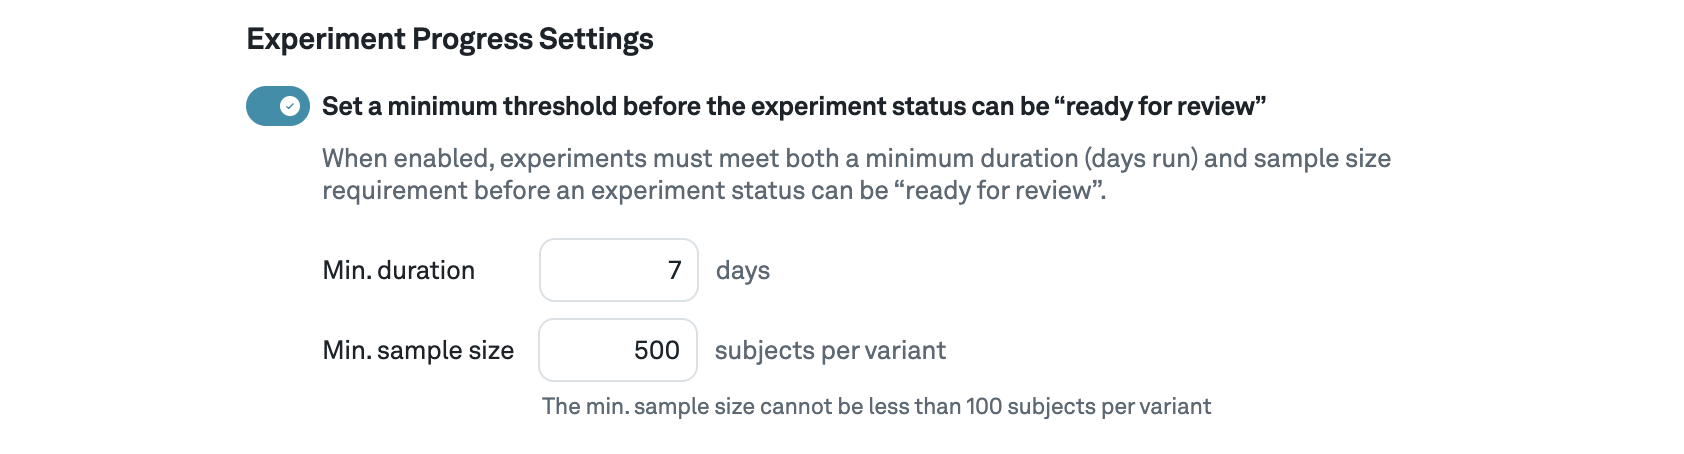
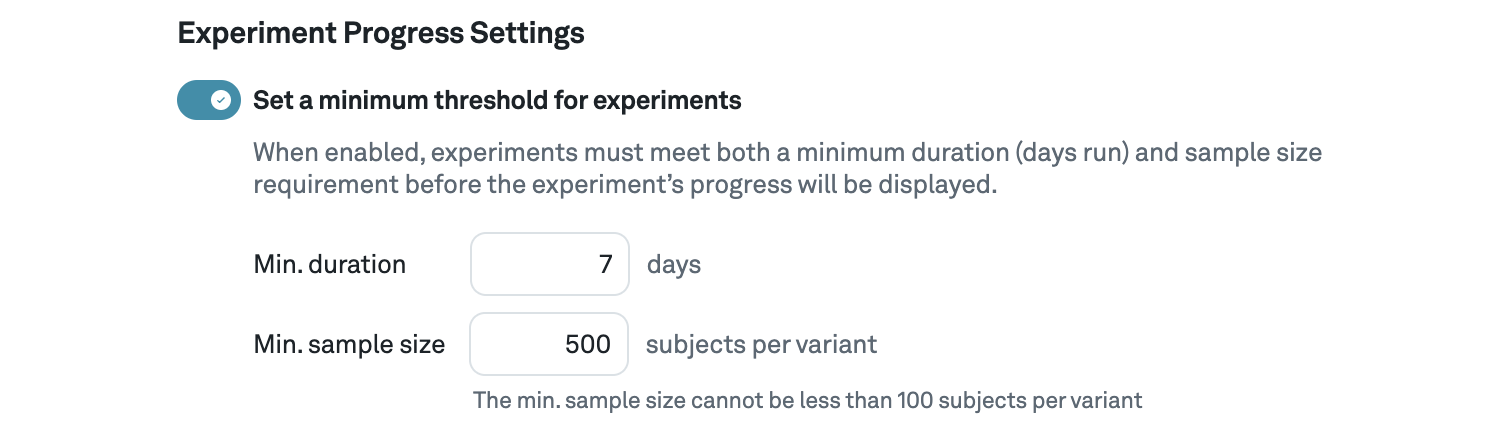
Update min requirements

diff --git a/docs/administration/setting-statistical-analysis-plan-defaults.md b/docs/administration/setting-statistical-analysis-plan-defaults.md
@@ -15,7 +15,9 @@ on what each setting is and how to choose the right settings, see
 
 ### Experiment Progress Settings
 #### Setting a minimum threshold for experiments
-When enabled, this setting cannot be overriden on individual experiments. The experiments must meet both a minimum duration (days run) and sample size requirement before an experiment status can be “ready for review”. This is to help prevent premature stopping and decisions on experiments. 
+When enabled, this setting cannot be overriden on individual experiments. When enabled, experiments must meet both a minimum duration (days run) and sample size requirement before the experiment’s progress will be displayed.
+
+ This is to help prevent premature stopping and decisions on experiments. 
 ![Minimum Threshold](/img/administration/min-threshold-admin-setting.png)
 
 ## How to Change the Defaults

diff --git a/docs/experiments/planning-experiments/analysis-plans.md b/docs/experiments/planning-experiments/analysis-plans.md
@@ -65,7 +65,7 @@ Note, this setting is unavailable for the Bayesian methodology.
 
 ### 4. Minimum Requirements {#minimum-requirements}
 
-If enabled by your admin, these are the minimum run requirements before an experiment status can be "Ready for Review". Experiments must meet both the minimum duration (days run) as well as sample size per variant. This is to help prevent premature experiment decisions.
+If enabled by your admin, these are the minimum run requirements before the progress bar will be displayed. Experiments must meet both the minimum duration (days run) as well as sample size per variant. This is to help prevent premature experiment decisions.
 
 If your admin has not enabled this setting, then minimum requirements will not be visible on experiments.
 ![Minimum requirements](/img/planning-experiments/min-requirements-exp-settings.png)
